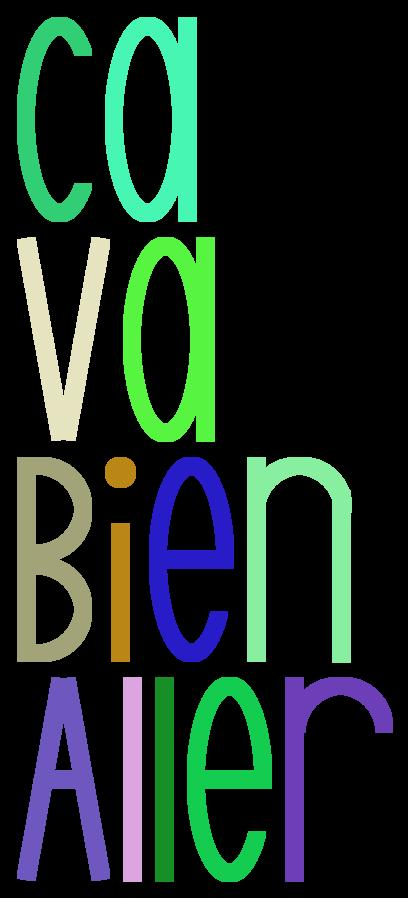
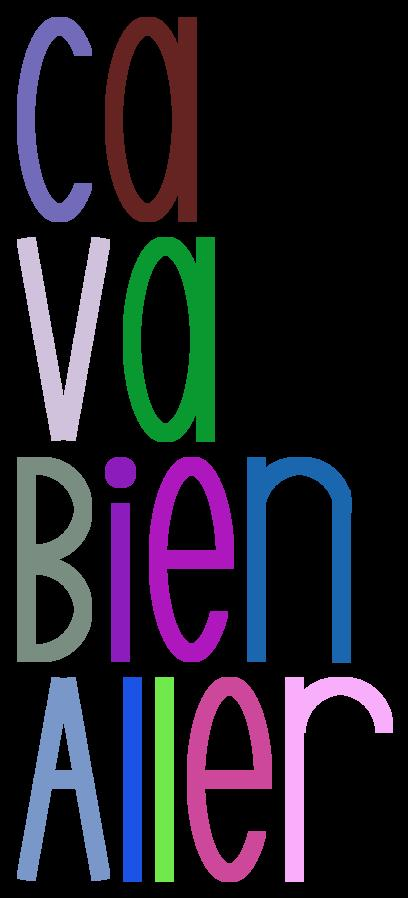
Fini

Changed region(s): [[0.2353, 0.0, 0.9706, 0.9978], [0.0294, 0.0, 0.2647, 0.9978]]

diff --git a/labo1/src/tp1/BaseShape.java b/labo1/src/tp1/BaseShape.java
@@ -27,7 +27,7 @@ public class BaseShape implements Cloneable {
     }
     public BaseShape addAll(Collection<Point2d> coords) {
         this.coords.addAll(coords);
-        return null;
+        return this;
     }
     public BaseShape remove(Point2d coord) {
         this.coords.remove(coord);
@@ -49,7 +49,7 @@ public class BaseShape implements Cloneable {
 
     // TODO retourner une nouvelle liste ou tous les points sont des copy
     public Collection<Point2d> getCoordsDeepCopy() {
-        ArrayList<Point2d> clone = new ArrayList<Point2d>(this.coords.size());
+        ArrayList<Point2d> clone = new ArrayList<>();
         for (Point2d item : this.coords) clone.add(item.clone());
         return clone;
     }

diff --git a/labo1/src/tp1/LetterFactory.java b/labo1/src/tp1/LetterFactory.java
@@ -53,7 +53,7 @@ public final class LetterFactory {
     // TODO
     public static BaseShape create_i() {
         BaseShape mainBody = new Circle(stripeThickness);
-        BaseShape bottomBar = new Rectangle(halfStripeThickness, maxHeight / 1.5).translate(new Point2d(0.0, 120.0));
+        BaseShape bottomBar = new Rectangle(halfStripeThickness, maxHeight / 1.3).translate(new Point2d(0.0, 110.0));
         mainBody.add(bottomBar);
         return mainBody;
     }

diff --git a/labo1/src/tp1/PointOperator.java b/labo1/src/tp1/PointOperator.java
@@ -44,6 +44,7 @@ public final class PointOperator {
         }
     }
 
+
     // TODO retourne une nouvelle coordonnee avec la plus grande valeur en X et la plus grande en Y.
     public static Point2d getMaxCoord(Collection<Point2d> coords) {
         double maxX = 0.0;

diff --git a/labo1/src/tp1/Rectangle.java b/labo1/src/tp1/Rectangle.java
@@ -18,7 +18,6 @@ public class Rectangle extends BaseShape {
                 super.add(new Point2d(new Double[]{-i, -j}));
             }
         }
-
     }
 
     // TODO creer un rectangle avec les dimensions contenu dans un Point.
